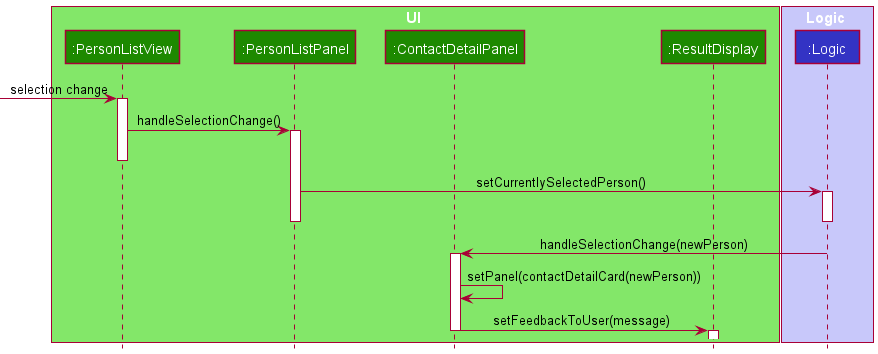
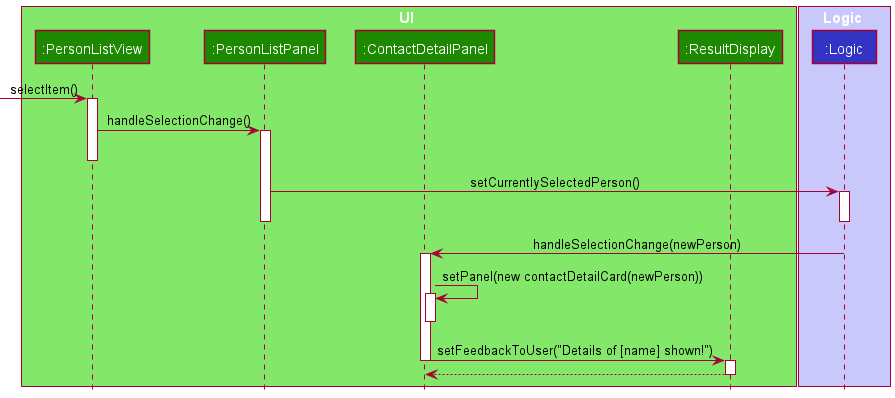
Update DG "Click tag"

diff --git a/docs/DeveloperGuide.md b/docs/DeveloperGuide.md
@@ -352,19 +352,31 @@ Step 4. Finally the copy command is executed and the `ClipboardManager#copy` is 
 
 _{more aspects and alternatives to be added}_
 
-### [Implemented] Clickable tags and contacts
+### [Implemented] Clickable contacts and tags
 
-This implementation makes the tags and contacts in the GUI clickable.
-
-#### Clickable tags
-
-When the user clicks a tag in the `TagPanel`, both the contact list and the meeting list will be filtered: only items that has the tag will be displayed, and the message in the `ResultDisplay` will be updated.
+This implementation makes the contacts and tags in the GUI clickable. When clicked, relevant information will be shown.
 
 #### Clickable contacts
 
 When the user clicks a contact in the list, the detailed information will be displayed in the `ContactDetailPanel`, and the message in the `ResultDisplay` will be updated.
 
 ![Sequence Diagram when a Contact is Clicked](images/ContactListSelectionChangeDiagram.png)
+
+The `ContactDetailPanel` is responsible for informing the user through the corresponding `ResultDisplay` when the details have been shown successfully.
+
+#### Clickable tags
+
+When the user clicks a tag in the `TagPanel`, both the contact list and the meeting list will be filtered: only items that has the tag will be displayed.
+
+This implementation helps the user to filter both contacts and meetings by tag easily.
+
+The number of matching items will then be updated in both `contactsResultDisplay` and `meetingsResultDisplay`.
+
+![Sequence Diagram when a Tag is Clicked](images/ClickTagDiagram.png)
+
+Since the effect of clicking a tag is global, each tag (displayed using a `Label`) will call the `clickTag` method in `MainWindow`.
+
+The `clickTag` method is then responsible for calling `Logic` to update the filtered list and updating both `ResultDisplay`s when filtering is done.
 
 --------------------------------------------------------------------------------------------------------------------
 
